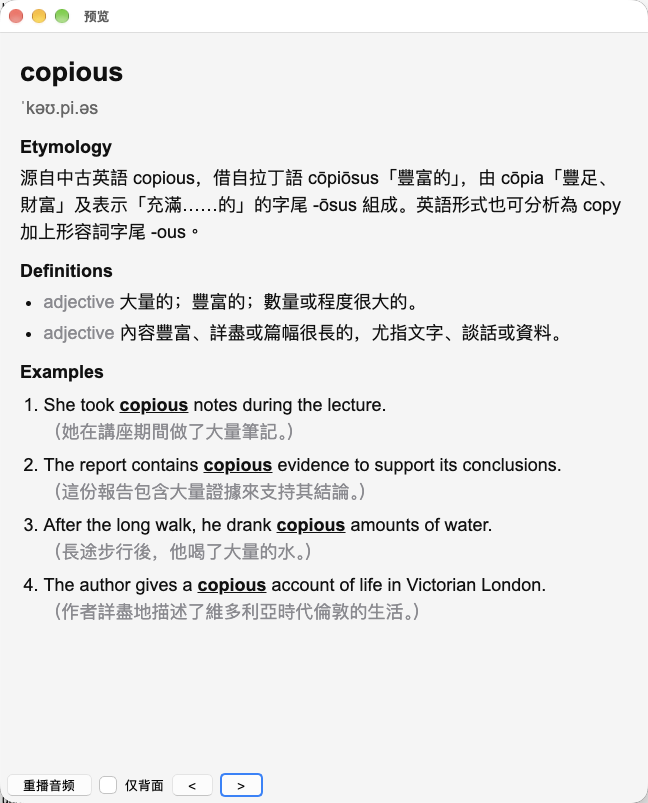
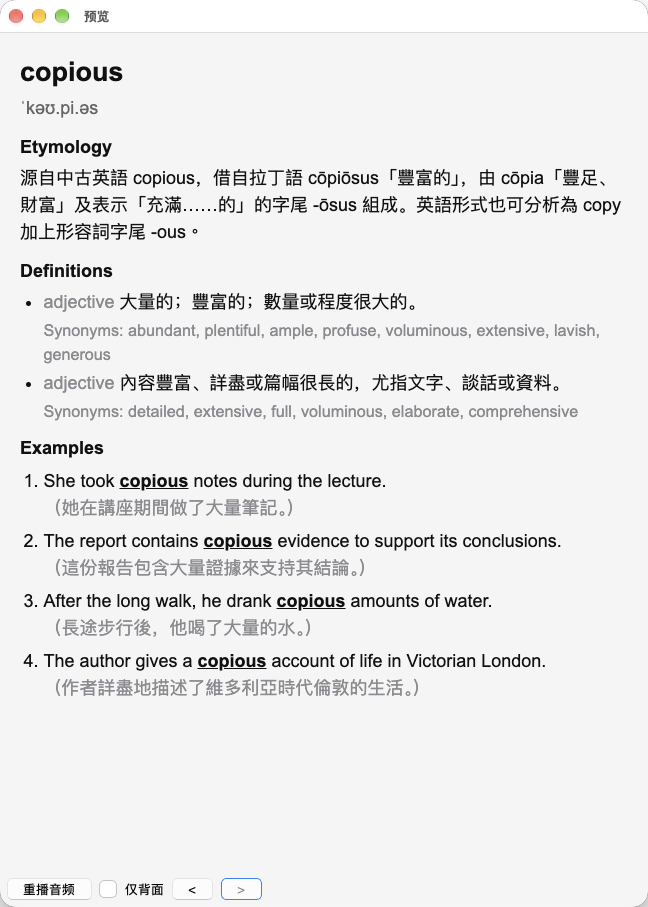
add synonyms

diff --git a/kagi-anki.user.js b/kagi-anki.user.js
@@ -109,6 +109,22 @@
     return '';
   }
 
+  function getSynonyms(p) {
+    let el = p;
+    while (el && el !== document.body) {
+      if (el.querySelectorAll('p[dir="auto"]').length === 1) {
+        const label = Array.from(el.querySelectorAll('span')).find((s) => /^Synonyms\b/.test(s.textContent.trim()));
+        if (label && label.parentElement) {
+          return Array.from(label.parentElement.querySelectorAll('button'))
+            .map((b) => b.textContent.trim())
+            .filter(Boolean);
+        }
+      }
+      el = el.parentElement;
+    }
+    return [];
+  }
+
   function getDefinitions() {
     const out = [];
     for (const id of ['primary-meaning', 'other-meanings']) {
@@ -118,10 +134,10 @@
       const defs = Array.from(sec.querySelectorAll('p[dir="auto"]'));
       const n = Math.min(posTags.length, defs.length);
       for (let i = 0; i < n; i++) {
-        out.push({ pos: posTags[i].textContent.trim(), text: defs[i].textContent.trim() });
+        out.push({ pos: posTags[i].textContent.trim(), text: defs[i].textContent.trim(), synonyms: getSynonyms(defs[i]) });
       }
       if (posTags.length === 0) {
-        for (const d of defs) out.push({ pos: '', text: d.textContent.trim() });
+        for (const d of defs) out.push({ pos: '', text: d.textContent.trim(), synonyms: getSynonyms(d) });
       }
     }
     return out;
@@ -196,7 +212,15 @@
       parts.push('<h4 style="margin:12px 0 4px;font-size:1em;text-align:left">Definitions</h4>');
       parts.push('<ul style="margin:0;padding-left:1.3em">');
       for (const x of d.definitions) {
-        parts.push('<li style="margin:4px 0">' + (x.pos ? '<span style="color:#8a8a8f">' + esc(x.pos) + '</span> ' : '') + esc(x.text) + '</li>');
+        parts.push(
+          '<li style="margin:4px 0">' +
+            (x.pos ? '<span style="color:#8a8a8f">' + esc(x.pos) + '</span> ' : '') +
+            esc(x.text) +
+            (x.synonyms && x.synonyms.length
+              ? '<div style="color:#8a8a8f;font-size:0.9em;margin-top:2px">Synonyms: ' + x.synonyms.map(esc).join(', ') + '</div>'
+              : '') +
+            '</li>'
+        );
       }
       parts.push('</ul>');
     }

diff --git a/README.md b/README.md
@@ -5,8 +5,8 @@ entry into an Anki note, via the [AnkiConnect](https://foosoft.net/projects/anki
 on `127.0.0.1:8765`.
 
 The script adds a **加入 Anki** button right next to the site's own *Anki* button. Clicking it reads
-the word, pronunciation, definitions, examples, notes and etymology from the current dictionary page
-and creates a new note.
+the word, pronunciation, definitions, synonyms, examples, notes and etymology from the current
+dictionary page and creates a new note.
 
 Built by OpenCode + DeepSeek Flash V4.1.
 
@@ -18,6 +18,7 @@ than a plain export:
 - **Examples on the front** — context that makes the meaning easier to recall before you flip.
 - **Etymology at the top of the back** — word origins are a strong memory hook.
 - **Part of speech before each definition** — `noun` / `adjective`, shown dimmed.
+- **Synonyms under each definition** — shown dimmed beneath the meaning.
 - **Target word highlighted** — bold and underlined in every example sentence.
 - **Chinese translation on its own line, dimmed** — the English example stays prominent and the
   Chinese doesn't distract.
